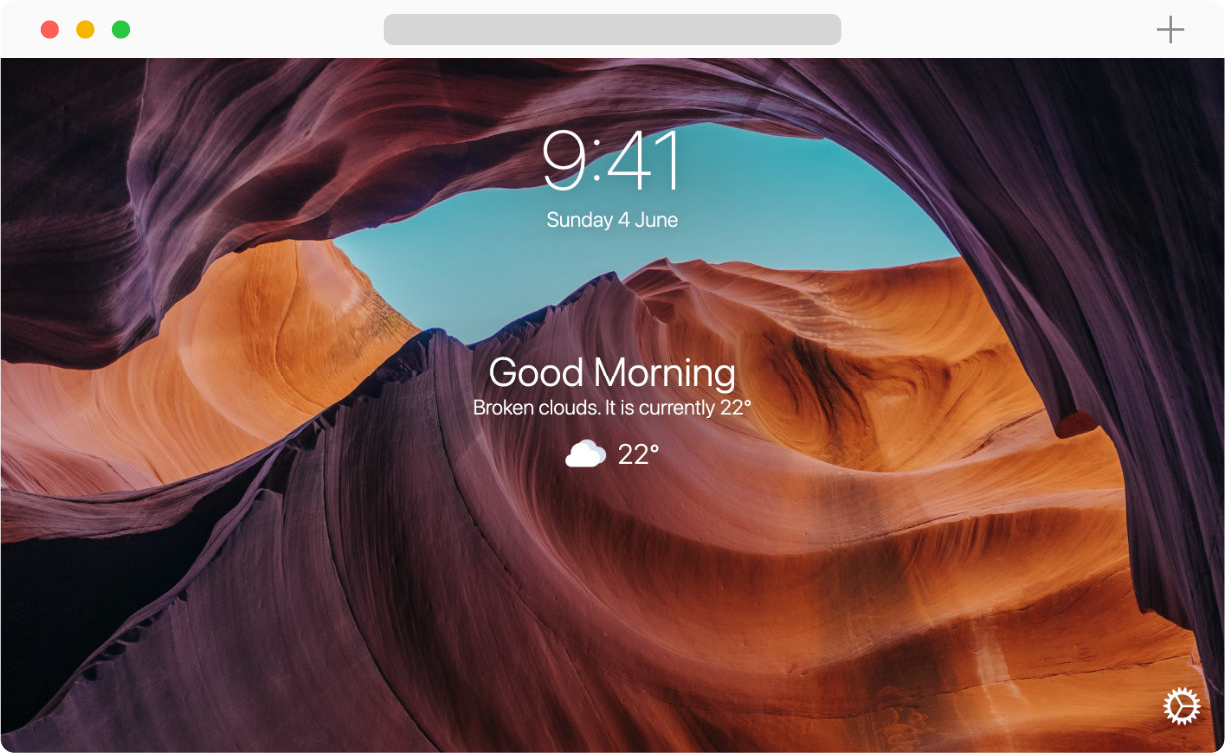
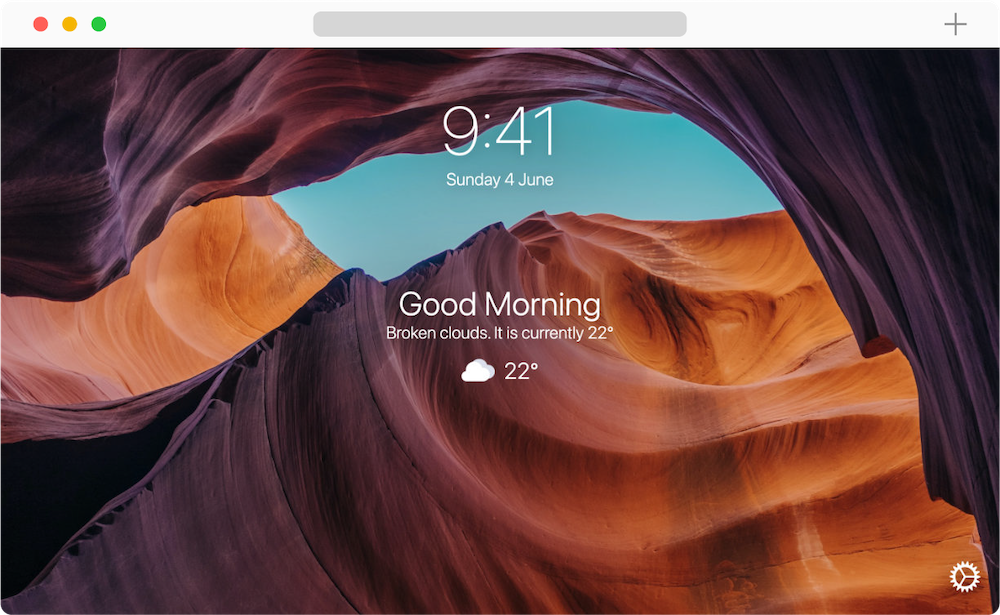
New nav & background, readme,  bug fixes, cleanup

diff --git a/src/styles/styles.scss b/src/styles/styles.scss
@@ -6,7 +6,13 @@ nav {
     box-sizing: border-box;
     z-index: 10;
     @include sidePadding();
-    padding-top: 0.5em;
+    padding-top: 2em;
+    padding-bottom: 0.5em;
+
+    @include sm {
+        padding-top: .5em;
+        padding-bottom: unset;
+    }
 
     .container {
         display: flex;
@@ -30,26 +36,31 @@ nav {
             flex-basis: 0;
         }
 
-        #logo {
-            @include textShadow();
+        // #logo {
+        //     position: relative;
 
-            @include md {
-                margin-right: 10px;
-            }
+        //     @include textShadow();
 
-            position: relative;
-            img {
-                height: 100%;
-            }
-            a {
-                color: white;
-            }
-        }
+        //     @include md {
+        //         margin-right: 10px;
+        //     }
+
+        //     img {
+        //         height: 100%;
+        //     }
+
+        //     a {
+        //         color: white;
+        //         padding-bottom: 4px;
+        //         padding-top: 4px;
+        //     }
+        // }
 
         .links {
             padding: unset;
             text-align: right;
             @include center();
+            justify-content: flex-start;
 
             @include sm {
                 justify-content: flex-start;
@@ -78,6 +89,8 @@ nav {
             color: white;
             position: relative;
             margin-left: 25px;
+            font-size: 1.3em;
+            
             @include textShadow;
 
             svg {
@@ -89,11 +102,12 @@ nav {
             }
 
             @include sm {
-                font-size: 14.5px;
+                font-size: 1em;
                 display: flex;
                 flex-direction: column;
                 justify-content: center;
                 align-items: center;
+                margin-left: 15px;
 
                 svg {
                     margin: unset;
@@ -169,6 +183,11 @@ footer {
             }
         }
     }
+}
+
+.homepage {
+    #homeLink { display: none; }
+    .links a:nth-child(2) { margin-left: unset; }
 }
 
 .homepage,

diff --git a/src/components/Navbar.js b/src/components/Navbar.js
@@ -19,33 +19,38 @@ export default function Navbar() {
     return (
         <nav>
             <div className="container">
-                <h1 id="logo">
-                    <Link to="/" alt="Go to homepage">
-                        Bonjourr
-                    </Link>
-                </h1>
-
                 <div className="links">
+
+                    <Link to="/" id="homeLink">
+                        {/* <FontAwesomeIcon icon={faBook} /> */}
+                        <Trans>Home</Trans>
+                    </Link>
                     <AnchorLink to={'/' + lang + '#further'}>
-                        <FontAwesomeIcon icon={faEnvelope} />
+                        {/* <FontAwesomeIcon icon={faEnvelope} /> */}
                         Contact
                     </AnchorLink>
 
                     <Link to="/help">
-                        <FontAwesomeIcon icon={faBook} />
+                        {/* <FontAwesomeIcon icon={faBook} /> */}
                         <Trans>Help</Trans>
                     </Link>
 
                     <a href="https://online.bonjourr.fr">
-                        <FontAwesomeIcon icon={faDesktop} />
+                        {/* <FontAwesomeIcon icon={faDesktop} /> */}
                         <Trans>Online</Trans>
                     </a>
 
                     <AnchorLink to={'/' + lang + '#donate'}>
-                        <FontAwesomeIcon icon={faDonate} />
+                        {/* <FontAwesomeIcon icon={faDonate} /> */}
                         <Trans>Donate</Trans>
                     </AnchorLink>
                 </div>
+
+                {/* <h1 id="logo">
+                    <Link to="/" alt="Go to homepage">
+                        Bonjourr
+                    </Link>
+                </h1> */}
 
                 <ul className="languages">
                     {languages.map(lng => (

diff --git a/src/styles/_content.scss b/src/styles/_content.scss
@@ -31,10 +31,11 @@ section,
 }
 
 #hero {
-    min-height: 66vh;
     display: flex;
     color: white;
     position: relative;
+    height: 66vh;
+    min-height: 550px;
     @include center();
 
     .background {
@@ -46,11 +47,11 @@ section,
         &:before {
             content: '';
             position: absolute;
-            // box-shadow: inset 0 0 0 2000px rgba(0, 0, 0, 0.05);
-            background-image: url('/willian-justen-de-vasconcellos-8sHZE1CXG4w-unsplash.webp');
+            background-image: url('/mitch-meyers-YQD1Xljt4xo-unsplash.webp');
             background-size: cover;
             background-position: center center;
-            filter: blur(13px);
+            filter: blur(5px);
+
             display: block;
             width: 100%;
             height: 100%;
@@ -123,6 +124,8 @@ section,
 
         &.right {
             max-width: 650px;
+            margin-left: 1em;
+
             img {
                 width: 100%;
                 height: auto;
@@ -176,6 +179,7 @@ article {
     > * {
         margin-bottom: 5em;
     }
+
     div:last-child {
         margin-bottom: unset;
     }
@@ -193,6 +197,10 @@ article {
 
         & > div {
             max-width: unset !important;
+        }
+
+        @include md {
+            margin-bottom: 1.5em!important;
         }
     }
 

diff --git a/src/pages/index.js b/src/pages/index.js
@@ -71,8 +71,8 @@ const IndexPage = ({ data }) => {
                 <div className="right">
                     {/* No StaticImage since it's above the fold and needs to be f a s t */}
                     <img
-                        src="/illu.png"
-                        srcset="/illu.png 2x"
+                        src="/illu.webp"
+                        srcset="/illu2x.webp 2x"
                         alt="Bonjourr screenshot"
                         width="613"
                         height="377"
@@ -141,7 +141,7 @@ const IndexPage = ({ data }) => {
                         <StaticImage
                             src="../assets/customise.png"
                             alt="Bonjourr dynamic backgrounds screenshot"
-                            quality={85}
+                            quality={90}
                             placeholder="blurred"
                             width={480}
                         />

diff --git a/src/styles/_global.scss b/src/styles/_global.scss
@@ -154,8 +154,7 @@ button,
     height: 55px;
     @include center;
     max-width: 300px;
-    // @include marginAuto();
-
+    
     @supports (backdrop-filter: none) {
         background: rgba(30, 30, 30, 0.4);
         backdrop-filter: blur(2px);

diff --git a/src/styles/document.scss b/src/styles/document.scss
@@ -46,6 +46,7 @@ article {
     h1 {
         font-weight: bold;
         margin-bottom: 0.7em;
+        padding-top: 40px;
 
         @include sm {
             margin-bottom: 0.4em;

diff --git a/README.md b/README.md
@@ -1,105 +1,19 @@
-<!-- AUTO-GENERATED-CONTENT:START (STARTER) -->
 <p align="center">
-  <a href="https://www.gatsbyjs.com">
-    <img alt="Gatsby" src="https://www.gatsbyjs.com/Gatsby-Monogram.svg" width="60" />
-  </a>
+  <img src="https://raw.githubusercontent.com/victrme/Bonjourr/master/src/assets/images/bonjourr.png" width="50%"></img>
 </p>
+
 <h1 align="center">
-  Gatsby's hello-world starter
+  Bonjourr's website
 </h1>
 
-Kick off your project with this hello-world boilerplate. This starter ships with the main Gatsby configuration files you might need to get up and running blazing fast with the blazing fast app generator for React.
+Welcome to Bonjourr's website repository. This website is made with Gatsby and React, and is hosted on Netlify. If you're searching for Bonjourr's repository, head to [here](https://github.com/victrme/Bonjourr) instead.
 
-_Have another more specific idea? You may want to check out our vibrant collection of [official and community-created starters](https://www.gatsbyjs.com/docs/gatsby-starters/)._
+## 🤔 What do?
 
-## 🚀 Quick start
+1.  **Clone and start**
 
-1.  **Create a Gatsby site.**
+    If you want to edit this website, you can simply clone it and `npm install`. Then run `gatsby develop` and you'll have a fully working dev environment running on `http://localhost:8000`. You can make a build by running `gatsby build`.
 
-    Use the Gatsby CLI ([install instructions](https://www.gatsbyjs.com/docs/tutorial/part-0/#gatsby-cli)) to create a new site, specifying the hello-world starter.
+2.  **Translate!**
 
-    ```shell
-    # create a new Gatsby site using the hello-world starter
-    gatsby new my-hello-world-starter https://github.com/gatsbyjs/gatsby-starter-hello-world
-    ```
-
-1.  **Start developing.**
-
-    Navigate into your new site’s directory and start it up.
-
-    ```shell
-    cd my-hello-world-starter/
-    gatsby develop
-    ```
-
-1.  **Open the source code and start editing!**
-
-    Your site is now running at `http://localhost:8000`!
-
-    _Note: You'll also see a second link: _`http://localhost:8000/___graphql`_. This is a tool you can use to experiment with querying your data. Learn more about using this tool in the [Gatsby tutorial](https://www.gatsbyjs.com/tutorial/part-five/#introducing-graphiql)._
-
-    Open the `my-hello-world-starter` directory in your code editor of choice and edit `src/pages/index.js`. Save your changes and the browser will update in real time!
-
-## 🚀 Quick start (Gatsby Cloud)
-
-Deploy this starter with one click on [Gatsby Cloud](https://www.gatsbyjs.com/cloud/):
-
-[<img src="https://www.gatsbyjs.com/deploynow.svg" alt="Deploy to Gatsby Cloud">](https://www.gatsbyjs.com/dashboard/deploynow?url=https://github.com/gatsbyjs/gatsby-starter-hello-world)
-
-## 🧐 What's inside?
-
-A quick look at the top-level files and directories you'll see in a Gatsby project.
-
-    .
-    ├── node_modules
-    ├── src
-    ├── .gitignore
-    ├── .prettierrc
-    ├── gatsby-browser.js
-    ├── gatsby-config.js
-    ├── gatsby-node.js
-    ├── gatsby-ssr.js
-    ├── LICENSE
-    ├── package-lock.json
-    ├── package.json
-    └── README.md
-
-1.  **`/node_modules`**: This directory contains all of the modules of code that your project depends on (npm packages) are automatically installed.
-
-2.  **`/src`**: This directory will contain all of the code related to what you will see on the front-end of your site (what you see in the browser) such as your site header or a page template. `src` is a convention for “source code”.
-
-3.  **`.gitignore`**: This file tells git which files it should not track / not maintain a version history for.
-
-4.  **`.prettierrc`**: This is a configuration file for [Prettier](https://prettier.io/). Prettier is a tool to help keep the formatting of your code consistent.
-
-5.  **`gatsby-browser.js`**: This file is where Gatsby expects to find any usage of the [Gatsby browser APIs](https://www.gatsbyjs.com/docs/browser-apis/) (if any). These allow customization/extension of default Gatsby settings affecting the browser.
-
-6.  **`gatsby-config.js`**: This is the main configuration file for a Gatsby site. This is where you can specify information about your site (metadata) like the site title and description, which Gatsby plugins you’d like to include, etc. (Check out the [config docs](https://www.gatsbyjs.com/docs/gatsby-config/) for more detail).
-
-7.  **`gatsby-node.js`**: This file is where Gatsby expects to find any usage of the [Gatsby Node APIs](https://www.gatsbyjs.com/docs/node-apis/) (if any). These allow customization/extension of default Gatsby settings affecting pieces of the site build process.
-
-8.  **`gatsby-ssr.js`**: This file is where Gatsby expects to find any usage of the [Gatsby server-side rendering APIs](https://www.gatsbyjs.com/docs/ssr-apis/) (if any). These allow customization of default Gatsby settings affecting server-side rendering.
-
-9.  **`LICENSE`**: This Gatsby starter is licensed under the 0BSD license. This means that you can see this file as a placeholder and replace it with your own license.
-
-10. **`package-lock.json`** (See `package.json` below, first). This is an automatically generated file based on the exact versions of your npm dependencies that were installed for your project. **(You won’t change this file directly).**
-
-11. **`package.json`**: A manifest file for Node.js projects, which includes things like metadata (the project’s name, author, etc). This manifest is how npm knows which packages to install for your project.
-
-12. **`README.md`**: A text file containing useful reference information about your project.
-
-## 🎓 Learning Gatsby
-
-Looking for more guidance? Full documentation for Gatsby lives [on the website](https://www.gatsbyjs.com/). Here are some places to start:
-
-- **For most developers, we recommend starting with our [in-depth tutorial for creating a site with Gatsby](https://www.gatsbyjs.com/tutorial/).** It starts with zero assumptions about your level of ability and walks through every step of the process.
-
-- **To dive straight into code samples, head [to our documentation](https://www.gatsbyjs.com/docs/).** In particular, check out the _Guides_, _API Reference_, and _Advanced Tutorials_ sections in the sidebar.
-
-## 💫 Deploy
-
-[Build, Deploy, and Host On The Only Cloud Built For Gatsby](https://www.gatsbyjs.com/cloud/)
-
-Gatsby Cloud is an end-to-end cloud platform specifically built for the Gatsby framework that combines a modern developer experience with an optimized, global edge network.
-
-<!-- AUTO-GENERATED-CONTENT:END -->
+    You can help by translating this website in your language. Head to `gatsby-config.js` and add your language's code in `gatsby-plugin-react-i18next`. Then duplicate the base folder in `/locales`, change its name and start translating!
